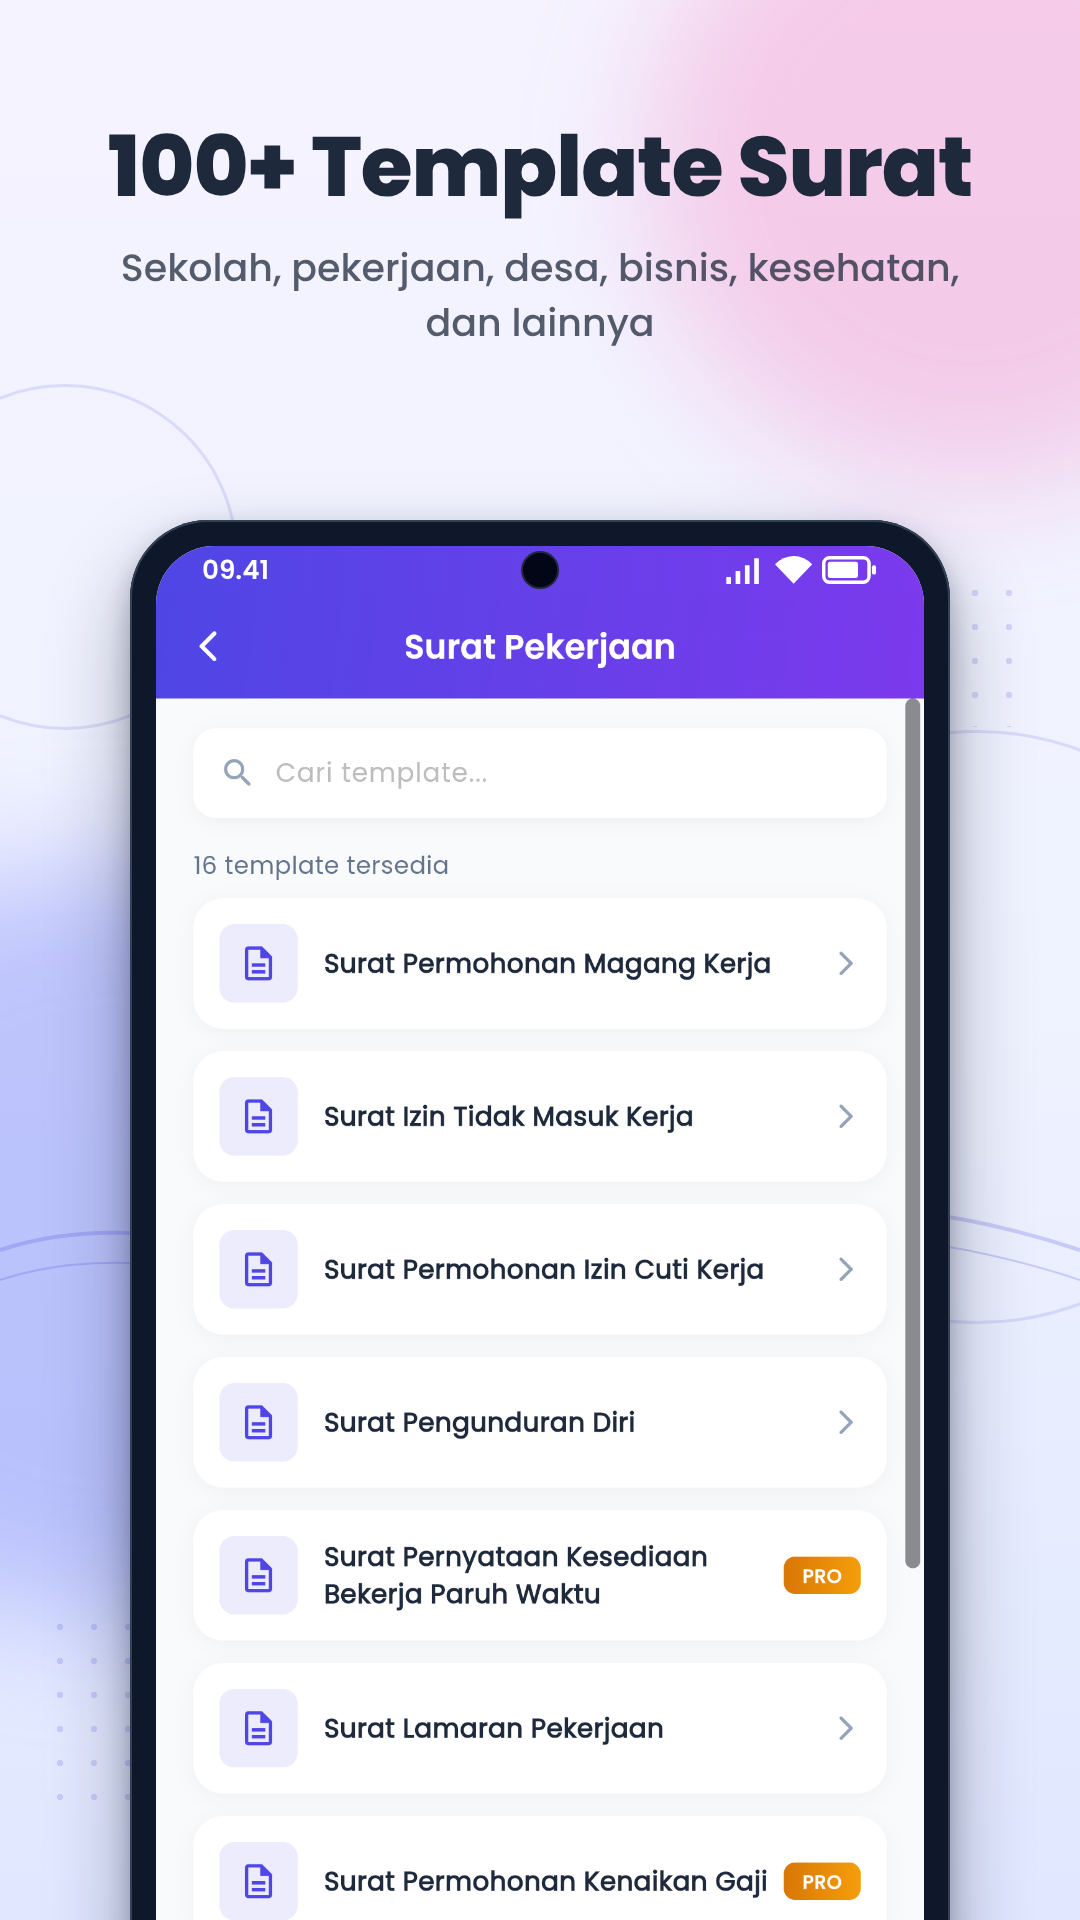
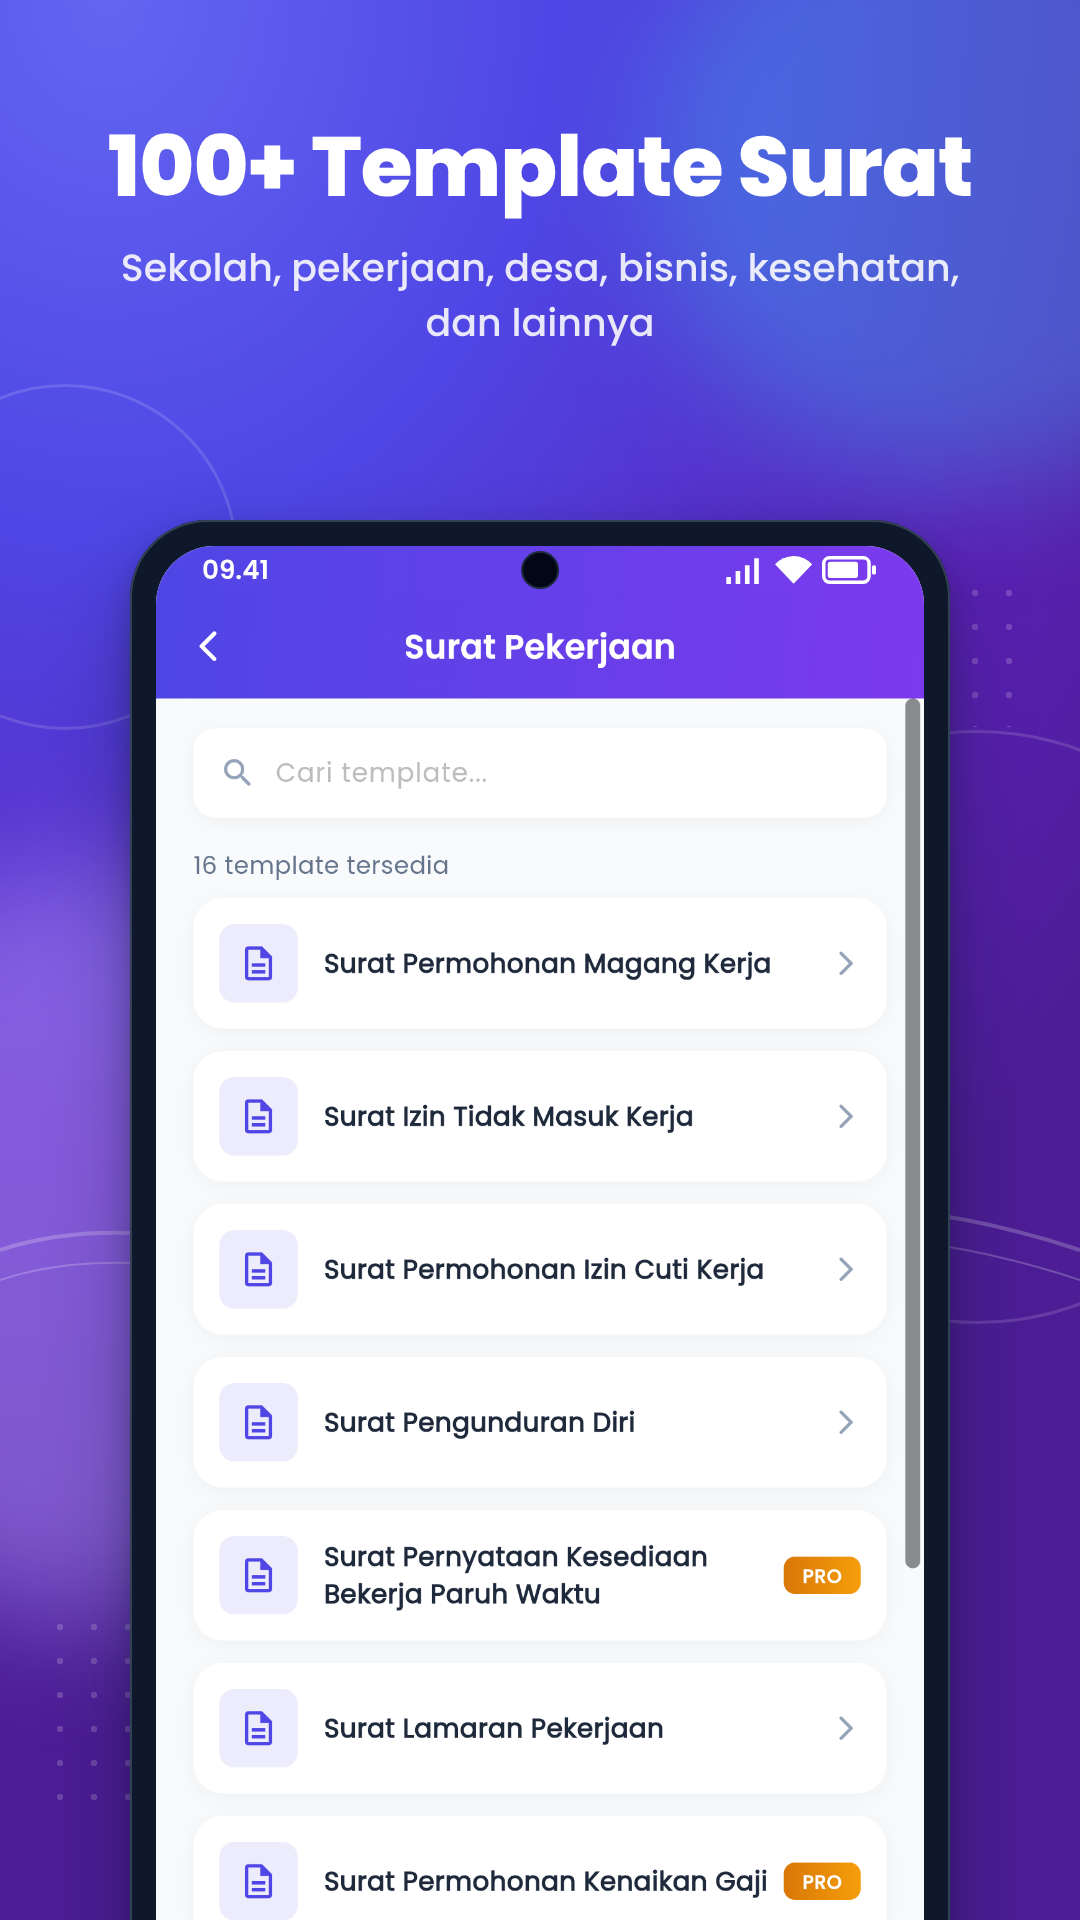
chore: use the intro background on every store screenshot
Claude-Session: https://claude.ai/code/session_01GHJVaYviacDUuwnHw28H7c

diff --git a/store/source/generate.js b/store/source/generate.js
@@ -127,7 +127,7 @@ const feature = ({ img, tone, title, sub, chips = [] }) => page(PW, PH, tone ===
 const SCREENS = [
   ['01-buat-surat-resmi', hero()],
   ['02-template-surat', feature({
-    img: 'template-list', tone: 'light', title: '100+ Template Surat',
+    img: 'template-list', tone: 'dark', title: '100+ Template Surat',
     sub: 'Sekolah, pekerjaan, desa, bisnis, kesehatan, dan lainnya',
   })],
   ['03-akun-surat', feature({
@@ -135,7 +135,7 @@ const SCREENS = [
     sub: 'Nama, alamat, dan tanda tangan terisi otomatis di setiap surat',
   })],
   ['04-isi-data-surat', feature({
-    img: 'isi-data-surat', tone: 'light', title: 'Isi Data Surat dengan Mudah',
+    img: 'isi-data-surat', tone: 'dark', title: 'Isi Data Surat dengan Mudah',
     sub: 'Lengkapi detail surat lewat formulir sederhana',
   })],
   ['05-edit-surat', feature({
@@ -143,7 +143,7 @@ const SCREENS = [
     sub: 'Ubah isi dan format teks sebelum surat disimpan',
   })],
   ['06-kop-surat', feature({
-    img: 'desain-kop', tone: 'light', title: 'Kop Surat Profesional',
+    img: 'desain-kop', tone: 'dark', title: 'Kop Surat Profesional',
     sub: 'Tambahkan logo dan identitas instansi dengan pilihan desain kop',
     chips: [{ name: 'crown', color: 'amber', text: 'Fitur Premium', x: 700, y: 470, rot: 4 }],
   })],
@@ -152,7 +152,7 @@ const SCREENS = [
     sub: 'Semua surat tersimpan rapi di menu File Saya',
   })],
   ['08-preview-surat', feature({
-    img: 'preview-surat', tone: 'light', title: 'Lihat Preview Sebelum Dipakai',
+    img: 'preview-surat', tone: 'dark', title: 'Lihat Preview Sebelum Dipakai',
     sub: 'Cek isi template lebih dulu, lalu gunakan dengan satu ketukan',
   })],
 ];
